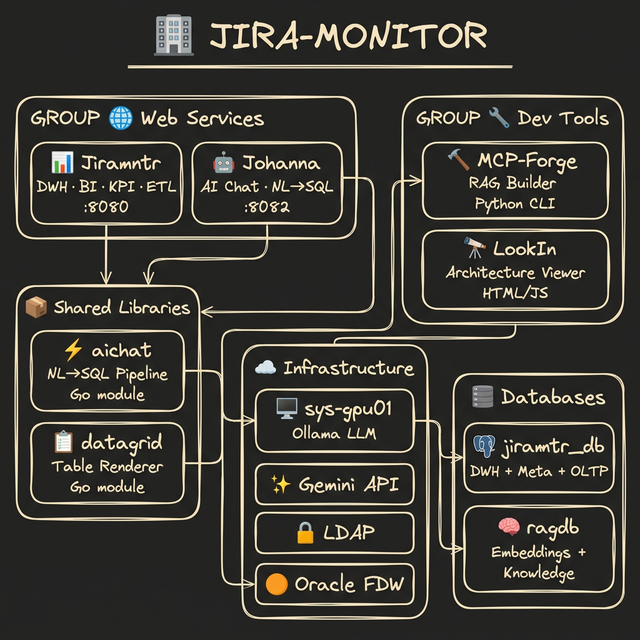
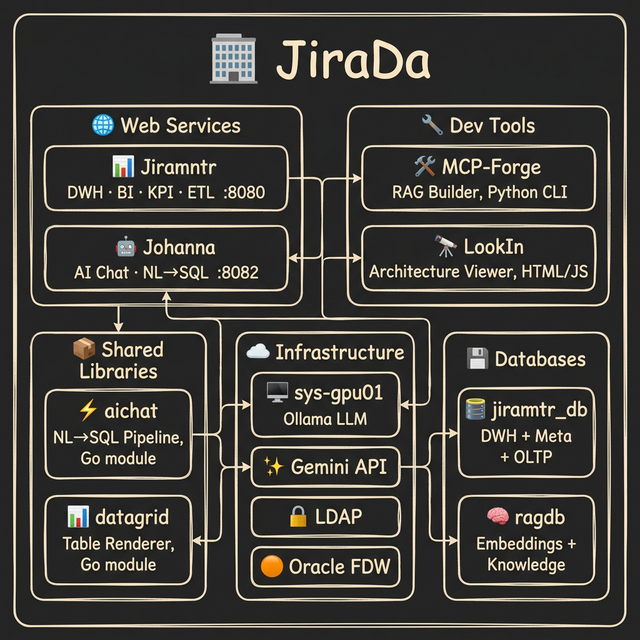
fix: click-region alignment + enterprise PNG renamed to JiraDa
- CSS: .image-layer now inline-block to shrink-wrap image (click regions align properly)
- Regenerated enterprise.png with JiraDa title
- Updated enterprise layer title in YAML: JIRA-MONITOR → JiraDa

diff --git a/style.css b/style.css
@@ -197,6 +197,7 @@ header h1 {
     display: flex;
     justify-content: center;
     align-items: center;
+    text-align: center;
     overflow: visible;
 }
 
@@ -355,19 +356,15 @@ header h1 {
 /* ── Image Layer Mode (PNG presentation) ─────────────────────── */
 .image-layer {
     position: relative;
-    display: flex;
-    justify-content: center;
-    align-items: center;
-    width: 100%;
-    height: 100%;
+    display: inline-block;
+    max-width: 95%;
+    max-height: 85vh;
 }
 
 .image-layer img {
-    max-width: 95%;
-    max-height: 85vh;
-    width: auto;
+    display: block;
+    width: 100%;
     height: auto;
-    object-fit: contain;
     border-radius: 8px;
     box-shadow: 0 4px 24px rgba(0, 0, 0, 0.5);
     user-select: none;
